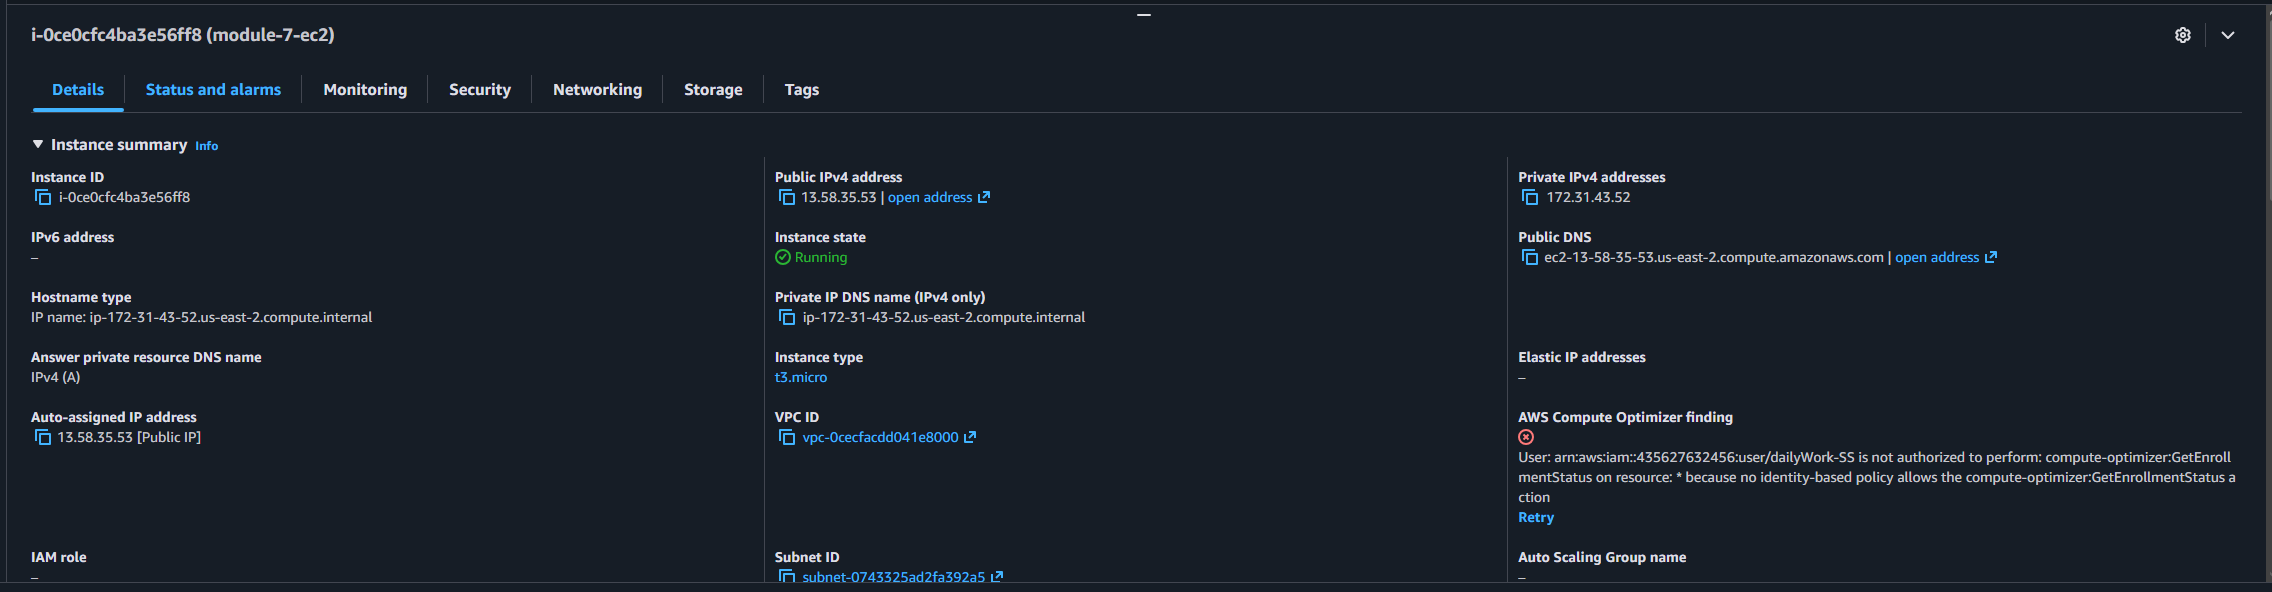
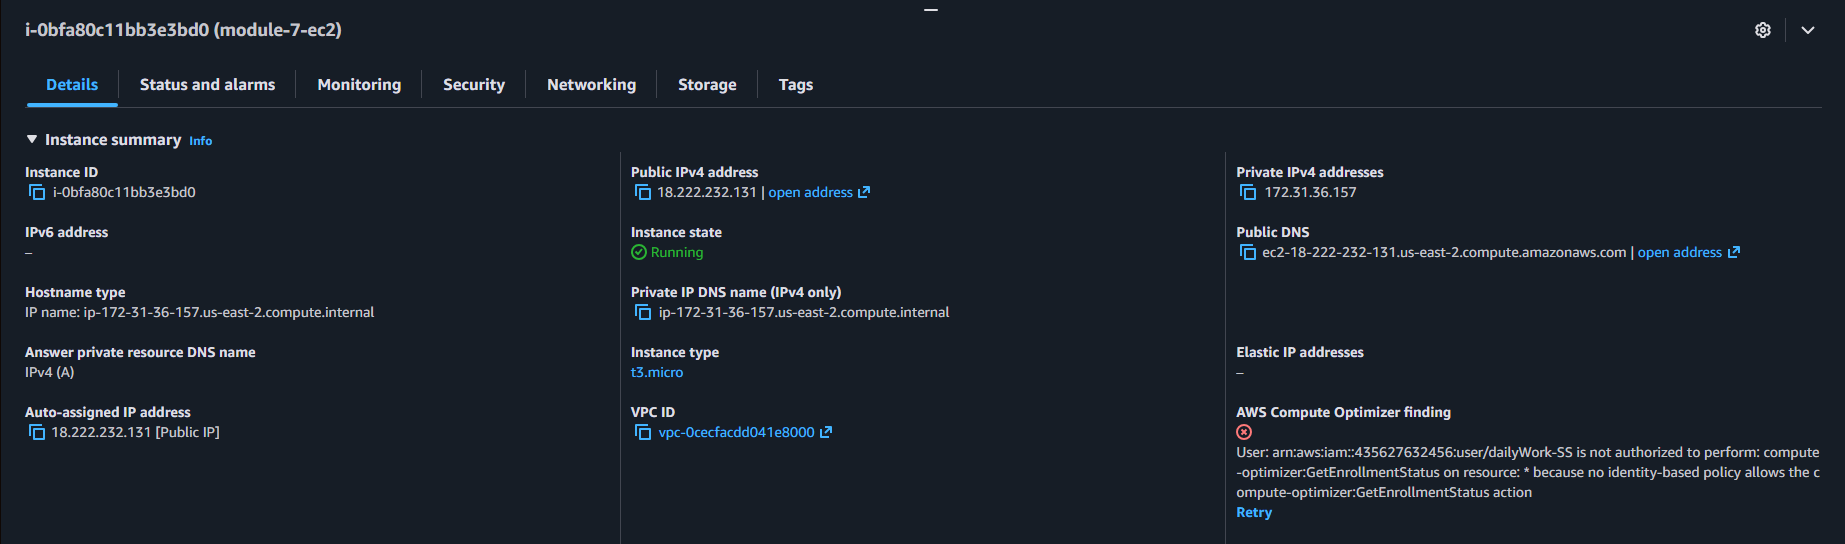
Fix module_6 consumer retry loop, update module_7 EC2 deployment with data seeding and new instance

diff --git a/module_6/src/worker/consumer.py b/module_6/src/worker/consumer.py
@@ -197,11 +197,12 @@ def _on_message(ch, method, _properties, body):
 
 
 def main():  # pragma: no cover
-    """Start the RabbitMQ consumer loop with retry on connection failure."""
+    """Start the RabbitMQ consumer loop with retry on any failure."""
     url = os.environ["RABBITMQ_URL"]
     params = pika.URLParameters(url)
 
     while True:
+        conn = None
         try:
             conn = pika.BlockingConnection(params)
             ch = conn.channel()
@@ -212,9 +213,21 @@ def main():  # pragma: no cover
             ch.basic_consume(queue=QUEUE, on_message_callback=_on_message)
             log.info("Worker ready on queue '%s'...", QUEUE)
             ch.start_consuming()
-        except pika.exceptions.AMQPConnectionError as exc:
-            log.warning("Connection failed: %s — retrying in 5s...", exc)
+        except (pika.exceptions.AMQPConnectionError,
+                pika.exceptions.AMQPChannelError,
+                pika.exceptions.ConnectionClosedByBroker,
+                pika.exceptions.StreamLostError) as exc:
+            log.warning("Connection lost: %s — retrying in 5s...", exc)
             time.sleep(5)
+        except (KeyboardInterrupt, SystemExit):
+            log.info("Worker shutting down.")
+            break
+        finally:
+            if conn and not conn.is_closed:
+                try:
+                    conn.close()
+                except Exception:
+                    pass
 
 
 if __name__ == "__main__":  # pragma: no cover

diff --git a/module_7/ec2/EC2_DEPLOYMENT.md b/module_7/ec2/EC2_DEPLOYMENT.md
@@ -3,7 +3,7 @@
 ## Instance Details
 - **AMI:** Ubuntu 24.04 LTS
 - **Instance type:** t3.micro
-- **Public IPv4:** 13.58.35.53
+- **Public IPv4:** 18.222.232.131
 - **Security group:** SSH (22) and port 8080 restricted to student IP only
 
 ## Steps Taken
@@ -19,7 +19,7 @@
 
 ### 2. SSH Into Instance
 ```bash
-ssh -i /path/to/module7-key.pem ubuntu@13.58.35.53
+ssh -i /path/to/module7-key.pem ubuntu@18.222.232.131
 ```
 
 ### 3. Install Docker and Docker Compose
@@ -120,7 +120,7 @@ docker compose -f docker-compose.ec2.yml ps
 ```
 
 ### 8. Verify
-- Flask app reachable at: http://13.58.35.53:8080
+- Flask app reachable at: http://18.222.232.131:8080
 - Pull Data and Update Analysis buttons verified working
 - Worker processes tasks via RabbitMQ
 

diff --git a/module_7/README.md b/module_7/README.md
@@ -76,13 +76,13 @@ See `ec2/EC2_DEPLOYMENT.md` for exact deployment steps.
 
 ### Quick Start
 ```bash
-ssh -i /path/to/module7-key.pem ubuntu@13.58.35.53
+ssh -i /path/to/module7-key.pem ubuntu@18.222.232.131
 cd module7
 docker compose -f docker-compose.ec2.yml --env-file .env up -d
 ```
 
 ### Live App
-- Web dashboard: http://13.58.35.53:8080
+- Web dashboard: http://18.222.232.131:8080
 - Docker Hub images: https://hub.docker.com/r/scharfshutzer/module_6
 
 ---
